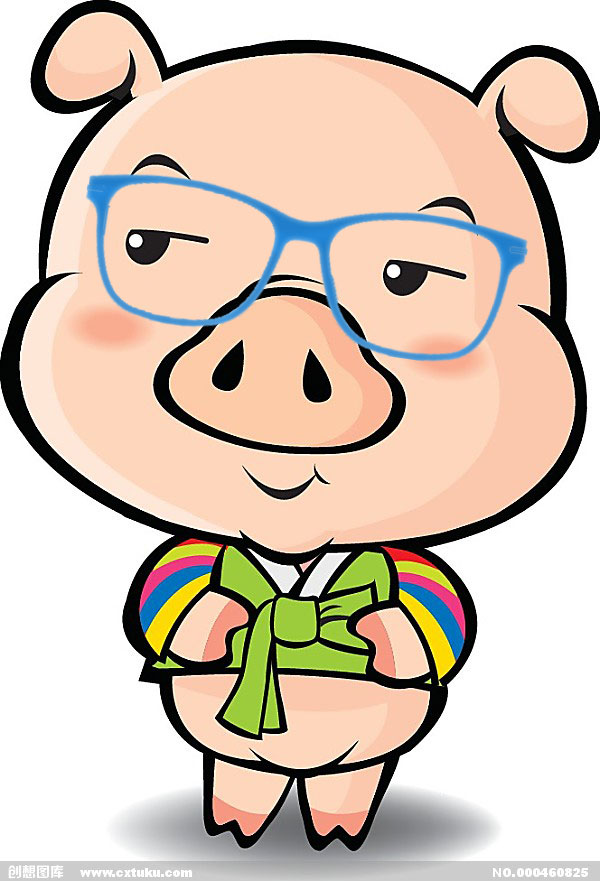
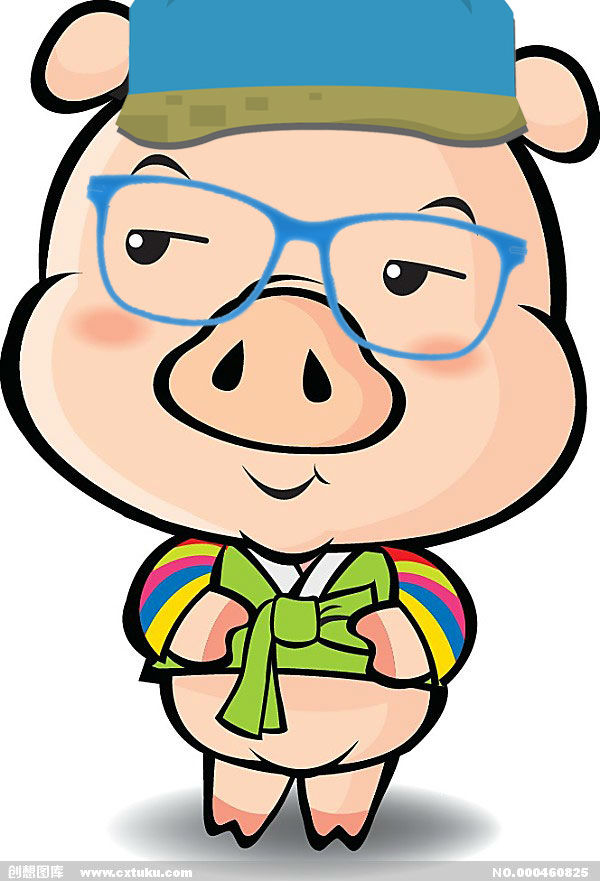
Update upload image logic

Changed region(s): [[0.18, 0.0, 0.9, 0.1839]]

diff --git a/WeShowApp/pages/server-image-reg/index.js b/WeShowApp/pages/server-image-reg/index.js
@@ -1,20 +1,26 @@
 Page({
   data: {
     toView: 'red',
-    category: [{
+    modalHidden: false,
+    categorys: [{
       id: '1',
+      key:'glass',
       name: '眼镜'
     }, {
       id: '2',
+      key:'hat',
       name: '帽子'
     }, {
       id: '3',
+      key:'coat',
       name: '上衣'
     }, {
       id: '4',
+      key:'pants',
       name: '裤子'
     }, {
       id: '5',
+      key:'dress',
       name: '连衣裙'
     }],
     glasses: [{
@@ -55,18 +61,42 @@ Page({
       scrollTop: 0
     })
   },
+  modalChange: function(e) {
+    this.setData({
+      modalHidden: true
+    })
+  },
   selectGoods: function(e) {
     console.log(e)
   },
   selectCategory: function(e) {
-    console.log(e);
-  },
-  toggleRightBar: function(e) {
-    var showRightBar = (this.data.showRightBar ? '' : 'show');
+    var category = e.currentTarget.id,
+      categorys = this.data.categorys;
+    console.log(categorys);
+    for (var i = 0, len = categorys.length; i < len; ++i) {
+      if (categorys[i].id == category) {
+        if(categorys[i].active == 'active'){
+          categorys[i].active = '';
+        }else{
+          categorys[i].active = 'active';
+        }
+        break;
+      }
+    }
+
     this.setData({
-      showRightBar: showRightBar
+        //sidebar: data[category],
+        //selectedCategory: category,
+        //showRightBar:'show',
+        categorys:categorys
     });
   },
+  // toggleRightBar: function(e) {
+  //   var showRightBar = (this.data.showRightBar ? '' : 'show');
+  //   this.setData({
+  //     showRightBar: showRightBar
+  //   });
+  // },
   chooseImage: function(e){
     var that = this
     wx.chooseImage({
@@ -74,16 +104,31 @@ Page({
       sizeType: ['original', 'compressed'], // 可以指定是原图还是压缩图，默认二者都有
       sourceType: ['album', 'camera'], // 可以指定来源是相册还是相机，默认二者都有
       success: function success(res) {
+        wx.showToast({
+          title: '图片上传中',
+          icon: 'loading',
+          duration: 10000
+        })
+
+        setTimeout(function(){
+          wx.hideToast()
+        },10000)
         wx.uploadFile({
           url: 'https://weshow.nbhanyi.com/glass,hat', //仅为示例，非真实的接口地址
           filePath: res.tempFilePaths[0],
           name: 'file',
           formData:{},
           success: function(res){
-            var filePath = 'https://weshow.nbhanyi.com/' + res.Data
-            that.setData({
-              tempFilePath: filePath
+            var filePath = 'https://weshow.nbhanyi.com/' + res.data
+            // that.setData({
+            //   tempFilePath: filePath
+            // })
+            console.log(filePath)
+            wx.previewImage({
+              current: filePath, // 当前显示图片的http链接
+              urls: [filePath] // 需要预览的图片http链接列表
             })
+            wx.hideToast()
           }
         })
       }

diff --git a/WeShow/Controllers/ImageController.cs b/WeShow/Controllers/ImageController.cs
@@ -236,14 +236,15 @@ namespace WeShow.Controllers
                 CovertRectangleToBitmap(result, image);
                 var brightness = GetImageBrightness(image);
 
+                Random r = new Random();
                 if (brightness < 0.63)
                 {
                     ///黑皮肤
-                    return new Image<Bgr, byte>(GetServerPath(@"Lib\glass.png"));
+                    return new Image<Bgr, byte>(GetServerPath($"Lib\\glass_light{r.Next(1,3).ToString()}.png"));
                 }
                 else
                 {
-                    return new Image<Bgr, byte>(GetServerPath(@"Lib\glass.png"));
+                    return new Image<Bgr, byte>(GetServerPath($"Lib\\glass_dark{r.Next(1,3).ToString()}.png"));
                 }
             }
             else

diff --git a/WeShow/Results/JsonResult.cs b/WeShow/Results/JsonResult.cs
@@ -7,11 +7,11 @@ using System.Web;
 
 namespace WeShow.Results
 {
-    public class JsonResult: HttpResponseMessage
+    public class JsonResult : HttpResponseMessage
     {
-        public JsonResult(object result)
+        public JsonResult(string result)
         {
-            this.Content = new StringContent(Newtonsoft.Json.JsonConvert.SerializeObject(result), Encoding.GetEncoding("UTF-8"), "application/json");
+            this.Content = new StringContent(result.Replace('\\', '/'), Encoding.GetEncoding("UTF-8"), "application/json");
         }
     }
 }
